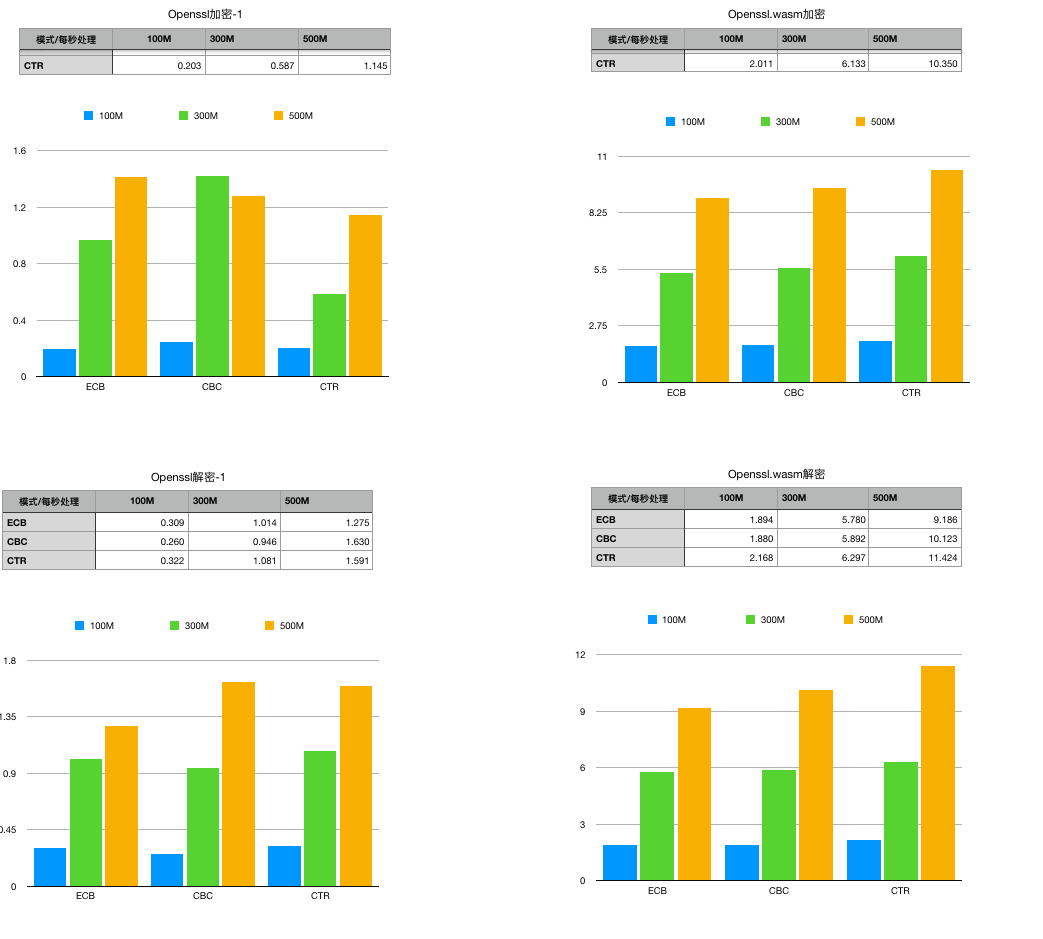
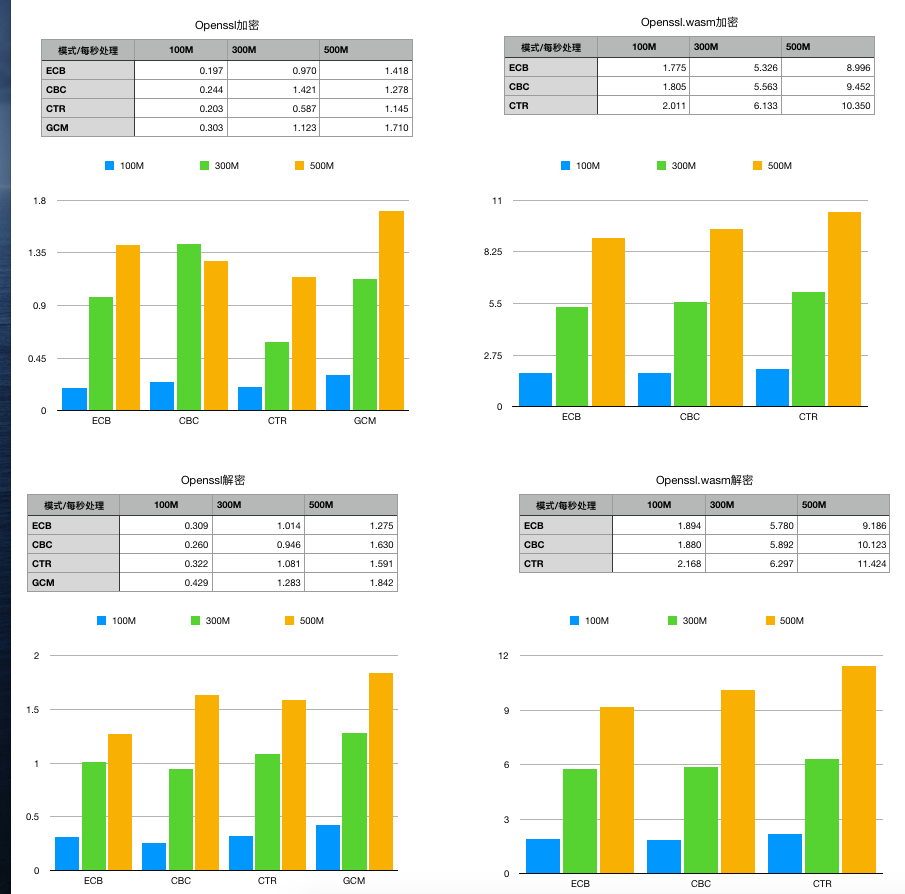
modify openssl编译成.wasm文件.md

diff --git a/wasm/openssl/openssl编译成.wasm文件.md b/wasm/openssl/openssl编译成.wasm文件.md
@@ -287,24 +287,21 @@ echo "Done"
 
 **加密**
 
-| 模式/文件大小  | 100M  |   300M  |  500M | key数据大小 |
-|  ----  | ---- |   ----  | ----- |----  | 
+| 模式/文件大小    | 100M  |   300M  |  500M | key数据大小 |
+|  ----  | ----  |   ----  | ----- |----  | 
 | ECB  | 0.197s |   0.970s | 1.418s | 128bit  |
 | CBC  | 0.244s |   1.421s | 1.278s | 128bit  |
 | CTR  | 0.203s |   0.587s | 1.145s | 128bit  |
 
-
 **解密**
 
-
-| 模式/文件大小   | 100M  |   300M  |  500M | key数据大小 |
-|  ----  | ----  |   ----  | ----- |----  | 
+|  模式/文件大小   | 100M  |   300M  |  500M | key数据大小 |
+|  ----  | ----  |   ----  | ----- |----  |
 | ECB  | 0.309s |  1.014s   | 1.275s |128bit  |
 | CBC  | 0.260s |   0.946s  | 1.630s |128bit  |
 | CTR  | 0.322s |   1.081s  | 1.591s |128bit  |
 
 #### openssl.wasm
-
 **加密**
 
 | 模式/文件大小    | 100M  |   300M  |  500M | key数据大小 |
@@ -322,8 +319,13 @@ echo "Done"
 | CTR  | 2.168s |   6.297s | 11.424s | 128bit  |
 
 
-
 ![](./openssl对比.png)
+
+#### 性能对比分析
+
+ - 使用原生的openssl和直接使用编译后的openssl.wasm计算加解密的性能对比来看，计算时间上还是有一定的差距的。
+ - 整体来看原生的openssl加解密要比wasm快8-10倍。
+ - 这和之前的认识有点出入，原因也有很多，有可能是在mac上使用openssl的版本和wasm使用openss编译的版本不一致；也有可能是使用编译工具编译成的wasm，增加了什么冗余代码，这个还需要深入了解才能知道；或者wasm内部需要进一步优化；又或者是测试的频率不够等。
 
 
 ### 六、写在最后
